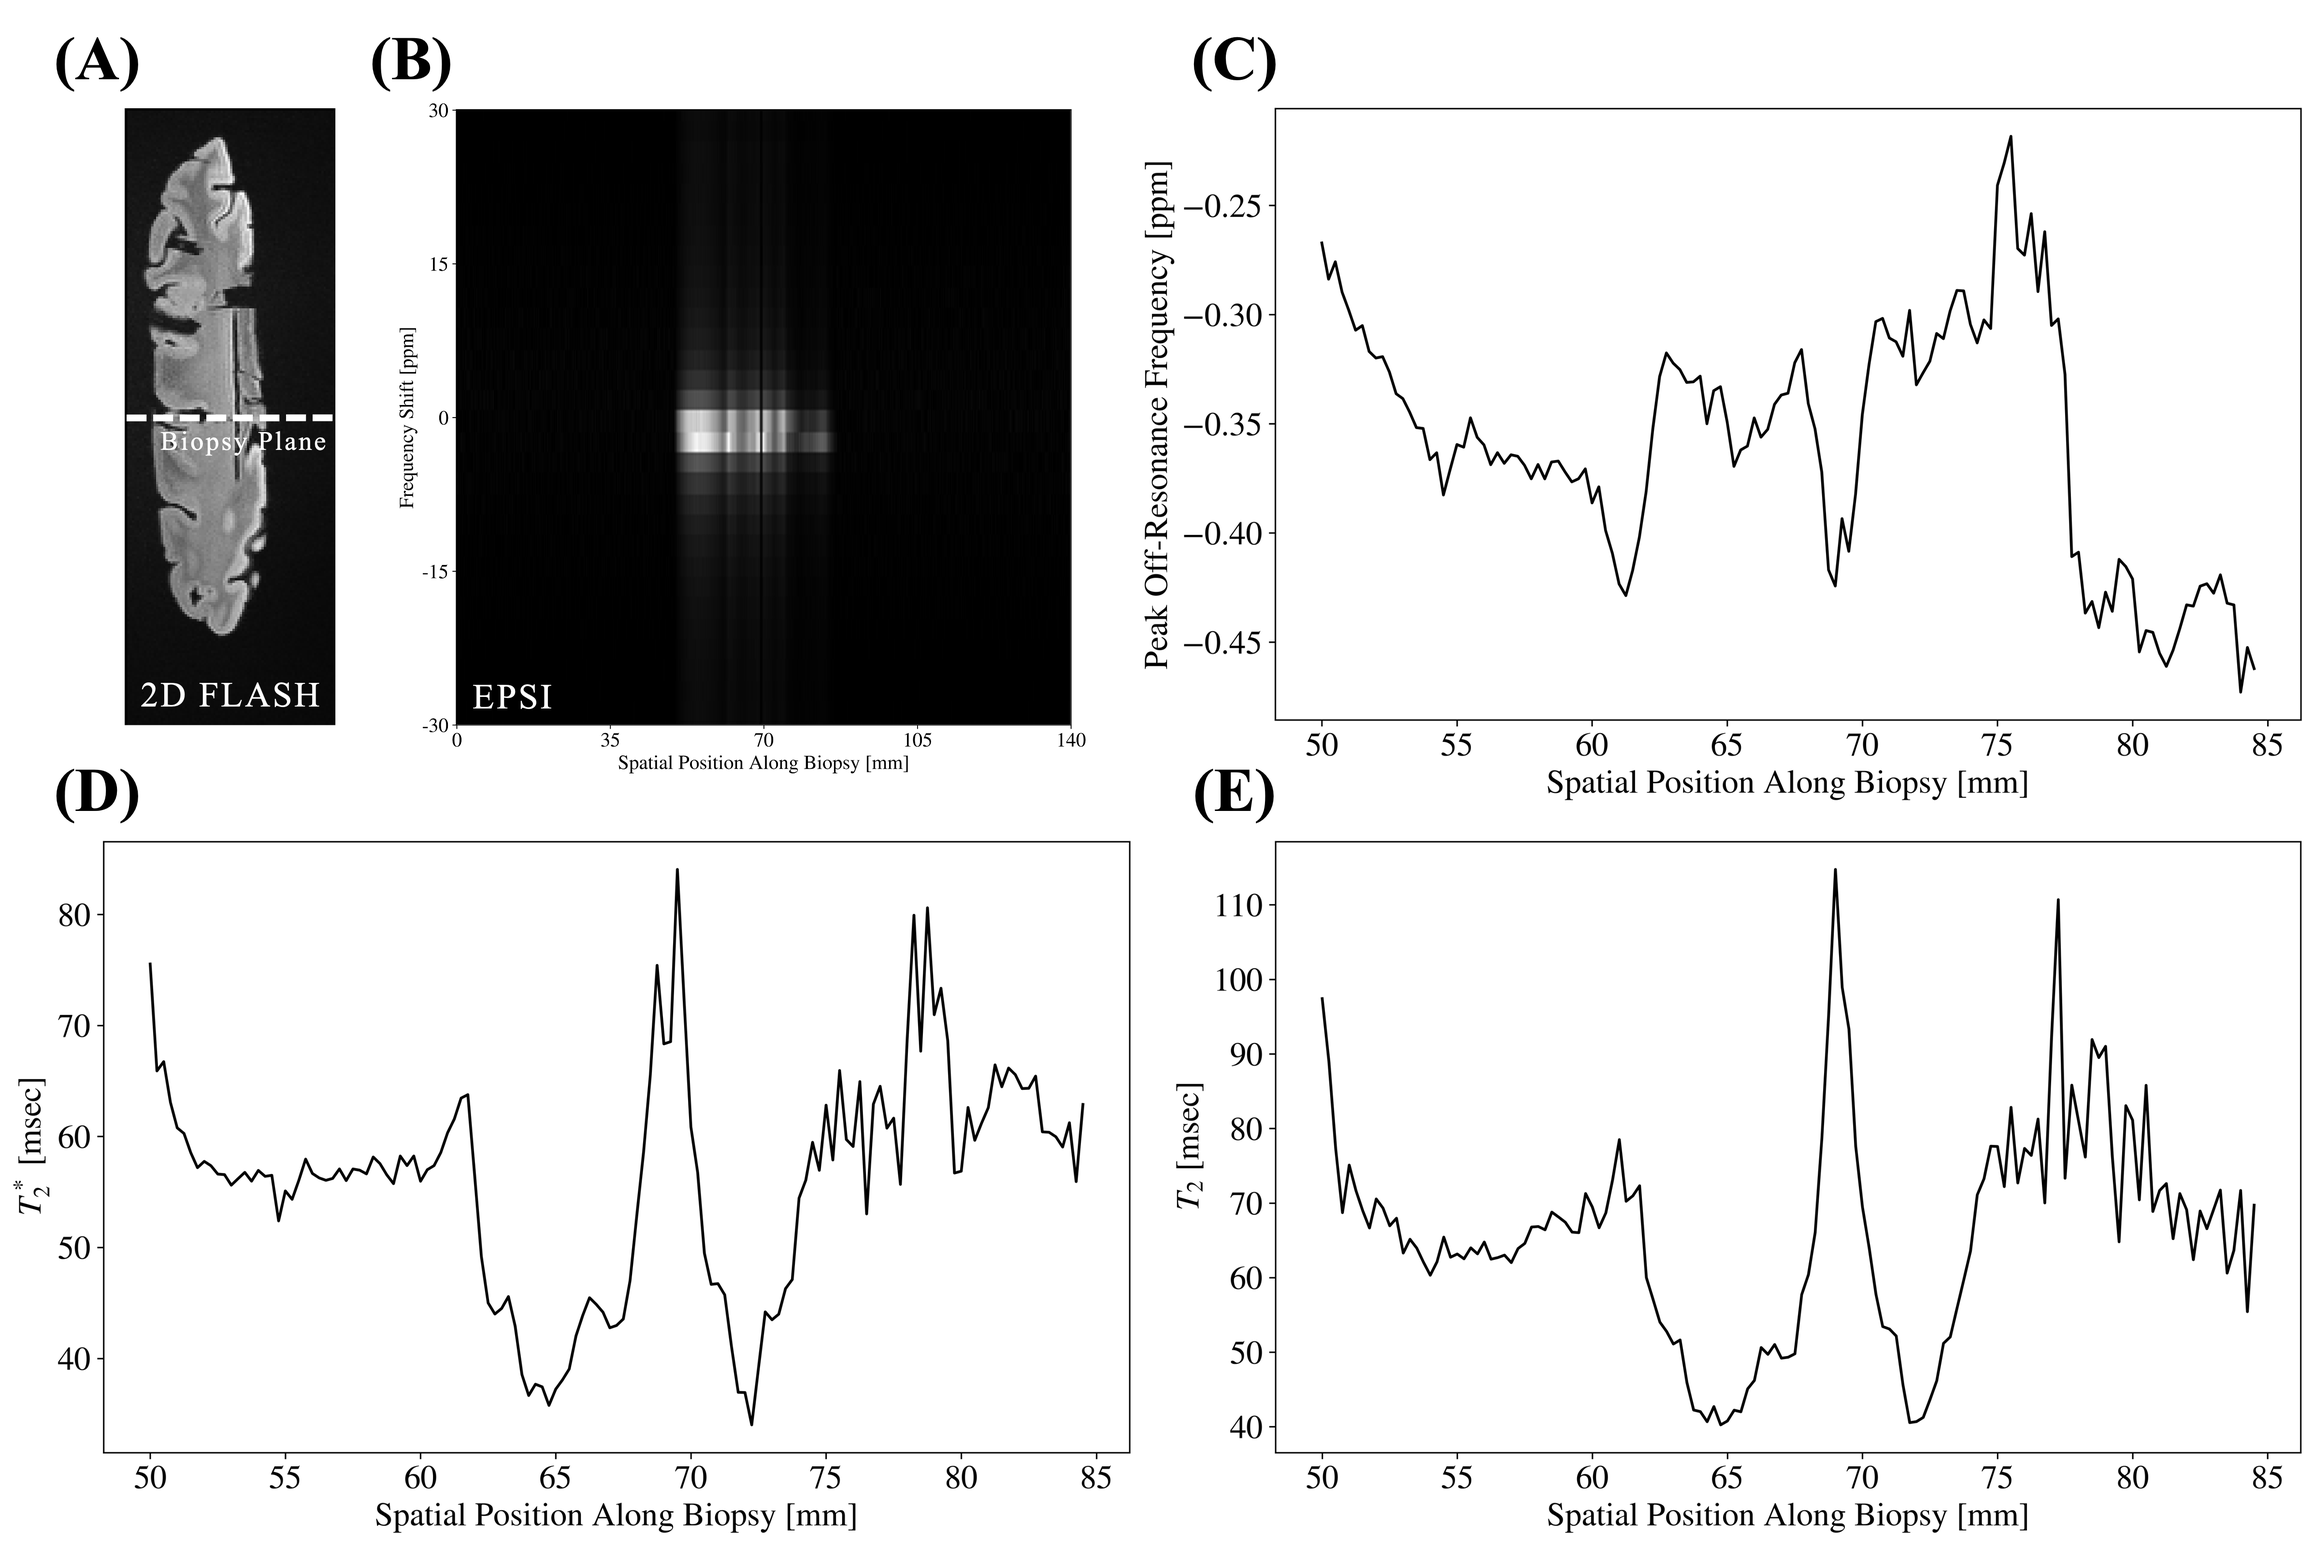
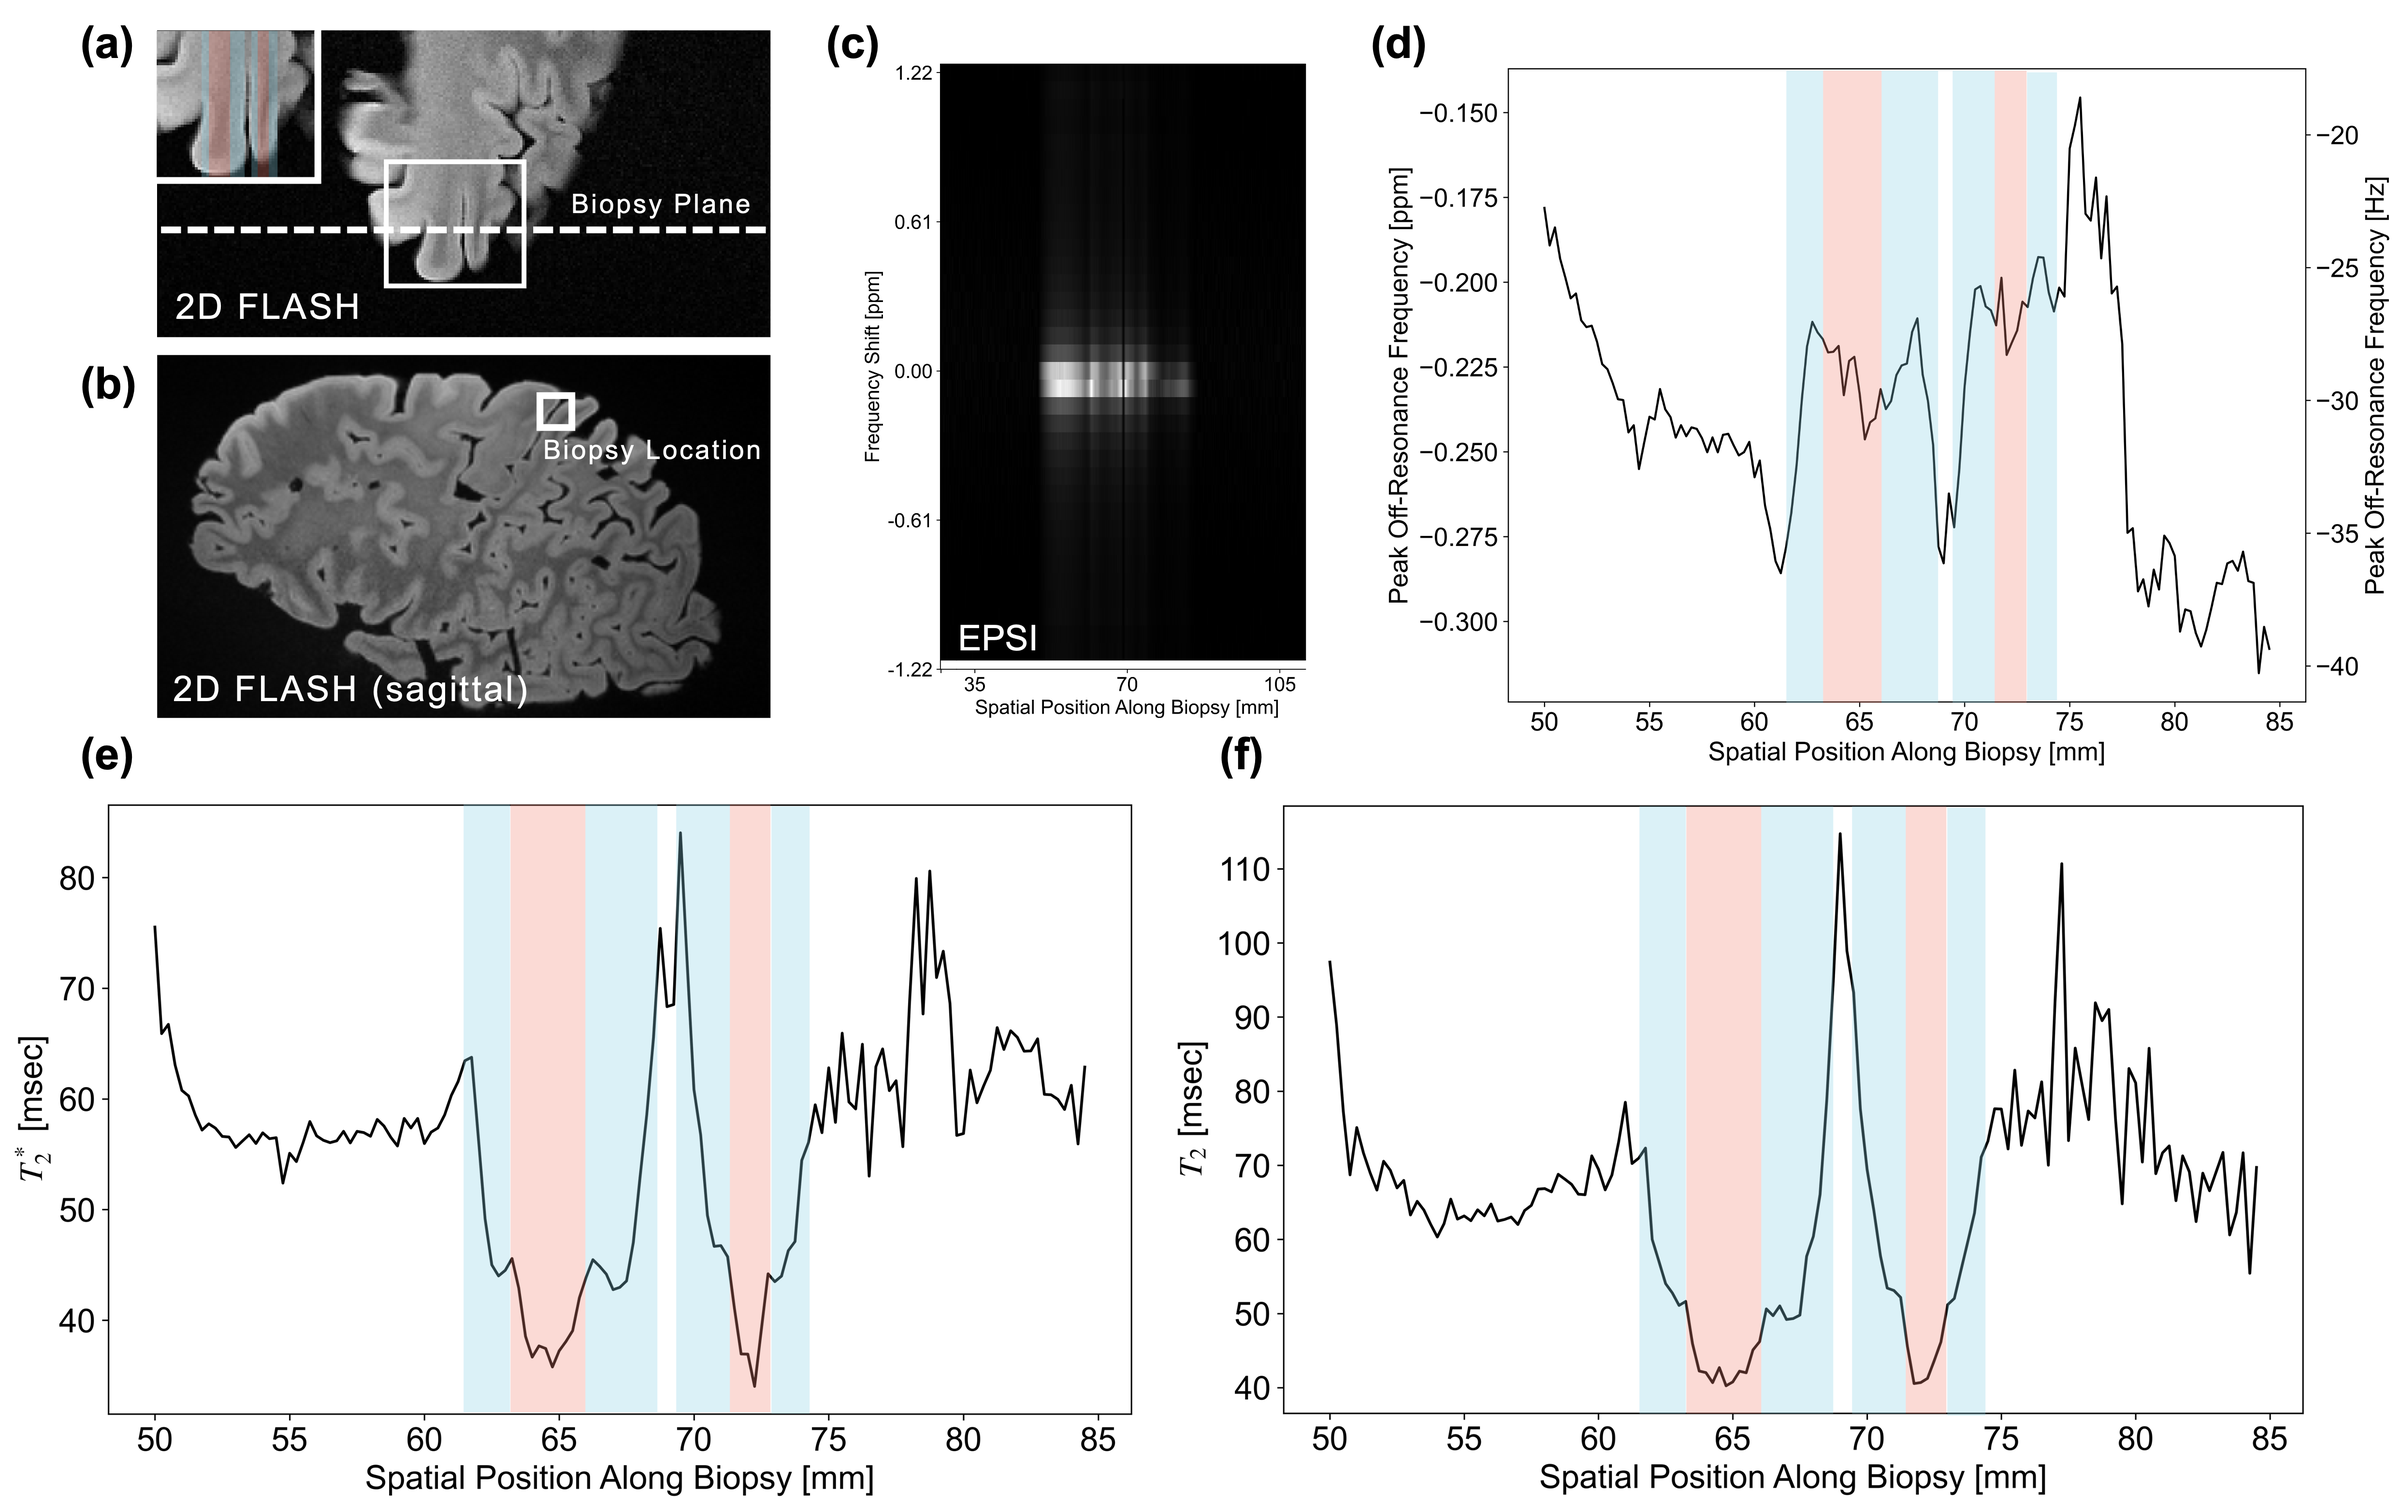
Updated codebase and analysis

diff --git a/explorer.py b/explorer.py
@@ -1,5 +1,5 @@
 """
-Defines the virtual biopsy EPSI data explorer class.
+Defines the virtual biopsy EPSI data explorer and visualizer class.
 
 Author(s):
     Michael S Yao
@@ -12,7 +12,7 @@ import matplotlib.pyplot as plt
 import numpy as np
 import os
 from pathlib import Path
-from typing import Sequence, Union
+from typing import Optional, Sequence, Union
 
 from biopsy import VirtualBiopsy
 
@@ -26,16 +26,31 @@ class EPSIExplorer:
         self.plot_config()
         self.biopsy = biopsy
 
-    def T2_spectra(self, savepath: Union[Path, str] = None) -> np.ndarray:
+    def T2_spectra(
+        self,
+        savepath: Union[Path, str] = None,
+        locs: Optional[Sequence[int]] = None,
+        colors: Optional[Sequence[str]] = None,
+    ) -> np.ndarray:
         """
         Plots the x-f T2-weighted EPSI spectrum.
         Input:
             savepath: optional path to save the plot. Default not saved.
+            locs: optional location(s) (in pixel coordinates) at which to
+                highlight with vertical lines in the spectrum.
+            colors: optional colors to plot the highlighting vertical lines
+                in the spectrum. If not provided, all of the spectra are
+                plotted in black.
         Returns:
             None.
         """
         plt.figure(figsize=(10, 10))
-        plt.imshow(np.abs(self.biopsy.spectrum), cmap="gray")
+        plt.imshow(np.abs(self.biopsy.spectrum), cmap="gray", aspect="auto")
+        if locs is not None:
+            if colors is None:
+                colors = ["black"] * len(locs)
+            for loc, co in zip(locs, colors):
+                plt.axvline(x=loc, linestyle="-", color=co, linewidth=4)
 
         wticks = np.linspace(0, self.biopsy.spectrum.shape[-1], 5)
         wticklabels = [
@@ -50,7 +65,7 @@ class EPSIExplorer:
             1e6 * f * self.biopsy.spectral_unit / self.biopsy.larmor_frequency
             for f in hticks - self.biopsy.spectrum.shape[0] // 2
         ]
-        hticklabels = [str(int(x)) for x in hticklabels]
+        hticklabels = [f"{x:.2f}" for x in hticklabels]
         plt.gca().set_yticks(hticks)
         plt.gca().set_yticklabels(hticklabels[::-1])
         plt.ylabel("Frequency Shift [ppm]")
@@ -61,7 +76,8 @@ class EPSIExplorer:
                 savepath,
                 dpi=600,
                 transparent=True,
-                bbox_inches="tight"
+                bbox_inches="tight",
+                pad_inches=0.0
             )
         plt.close()
         return
@@ -113,10 +129,18 @@ class EPSIExplorer:
         signal_idxs = np.where(off_reson_map != 0)[0]
         x, off_reson_map = x[signal_idxs], off_reson_map[signal_idxs]
 
-        plt.figure(figsize=(10, 6))
-        plt.plot(x, off_reson_map, color="black")
-        plt.xlabel("Spatial Position Along Biopsy [mm]")
-        plt.ylabel("Peak Off-Resonance Frequency [ppm]")
+        _, left_ax = plt.subplots(figsize=(10, 8))
+        left_ax.plot(x, off_reson_map, color="black")
+        left_ax.set_xlabel("Spatial Position Along Biopsy [mm]")
+        left_ax.set_ylabel("Peak Off-Resonance Frequency [ppm]")
+
+        right_ax = left_ax.twinx()
+        mn, mx = left_ax.get_ylim()
+        right_ax.set_ylim(
+            mn * self.biopsy.larmor_frequency / 1e6,
+            mx * self.biopsy.larmor_frequency / 1e6
+        )
+        right_ax.set_ylabel("Peak Off-Resonance Frequency [Hz]")
 
         if savepath is None or len(savepath) == 0:
             plt.show()
@@ -294,31 +318,21 @@ class EPSIExplorer:
             plt.cla()
         plt.close()
 
-        plt.figure(figsize=(10, 10))
-        plt.imshow(np.abs(self.biopsy.spectrum), cmap="gray")
-        for loc, co in zip(locs, colors):
-            plt.axvline(x=loc, linestyle="-", color=co, linewidth=4)
-        plt.axis("off")
-        if savepath is not None:
-            plt.savefig(
-                savepath,
-                dpi=600,
-                transparent=True,
-                bbox_inches="tight"
-            )
-        else:
-            plt.show()
-        plt.close()
+        self.T2_spectra(savepath, locs=locs, colors=colors)
         return
 
-    def plot_config(self, font_size: int = 18):
+    def plot_config(self, font_size: int = 18, use_sans_serif: bool = True):
         """
         Plot configuration variables.
         Input:
             font_size: default font size. Default 18.
+            use_sans_serif: whether to use Sans Serif font style.
         Returns:
             None.
         """
         matplotlib.rcParams["mathtext.fontset"] = "stix"
-        matplotlib.rcParams["font.family"] = "STIXGeneral"
+        if use_sans_serif:
+            matplotlib.rcParams['font.family'] = "Arial"
+        else:
+            matplotlib.rcParams["font.family"] = "STIXGeneral"
         matplotlib.rcParams.update({"font.size": font_size})

diff --git a/biopsy.py b/biopsy.py
@@ -52,7 +52,7 @@ class VirtualBiopsy:
         self.spectral_unit = 1 / (self.len_echo_train * self.echo_spacing)
         # B field strength has units of Teslas. Rounding to the nearest
         # integer field strength.
-        self.B_mag = float(int(metadata["Dicom"]["flMagneticFieldStrength"]))
+        self.B_mag = float(round(metadata["Dicom"]["flMagneticFieldStrength"]))
         self.gamma = 42.58 * 1e6  # In units of Hz / T. Assuming 1H imaging.
         self.larmor_frequency = self.gamma * self.B_mag
         # MR Imaging parameters. TE, TR, and total scan time are in units of

diff --git a/main.py b/main.py
@@ -150,7 +150,7 @@ if __name__ == "__main__":
 
     if args.reproduce_phantom:
         print("Running Phantom Data Replication Experiment...")
-        reproduce_phantom(args.datapath)
+        reproduce_phantom(args.datapath[0])
         print("Done!")
     if args.reproduce_exvivo:
         print("Running Ex-vivo Data Replication Experiment...")
